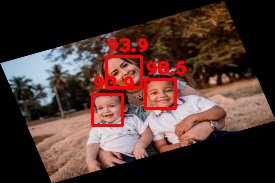
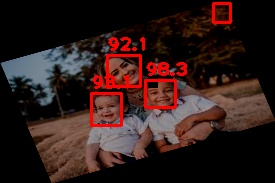
ultima ejecucion

diff --git a/tanhPolar.py b/tanhPolar.py
@@ -46,7 +46,7 @@ net = cv2.dnn.readNetFromCaffe(prototxt, model)
 images = sorted(os.listdir('./images/'))
 
 time_cumulated = 0
-confidence = 0.10
+confidence = 0.30
 
 print(f"Grado de confianza en detección : {confidence}")
 print(f"Imagen\tTiempo( ms)\tRostros")
